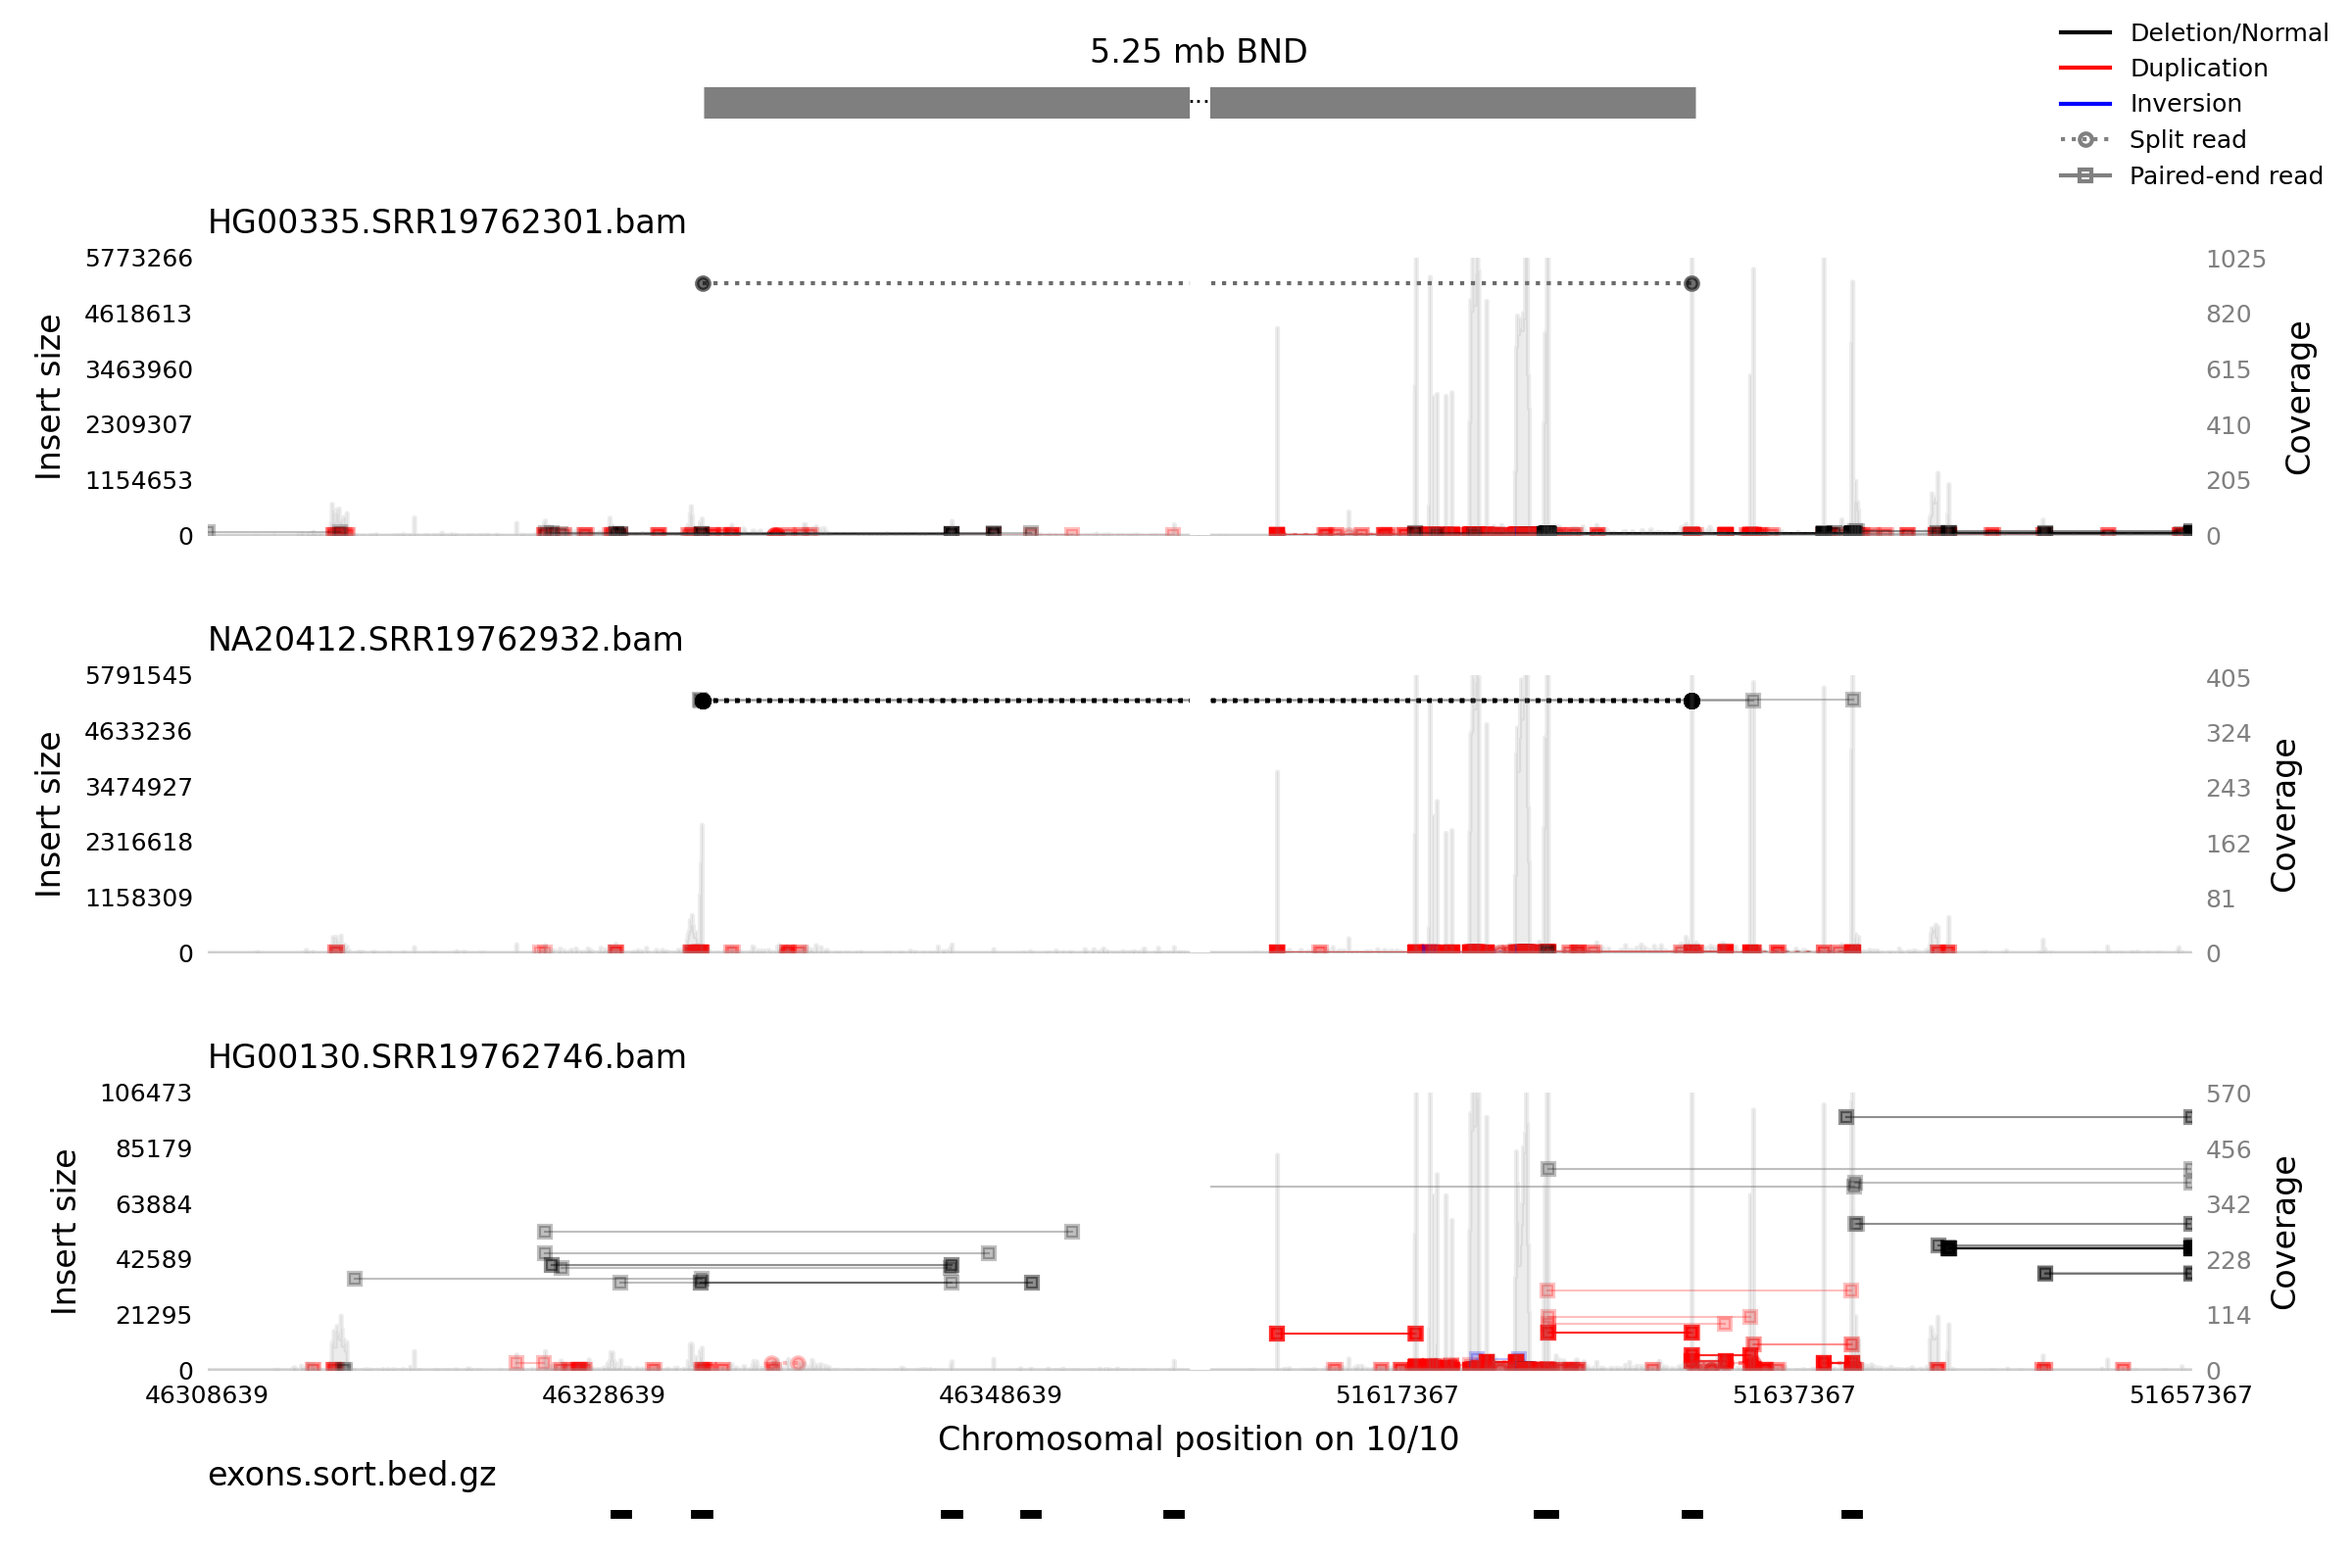
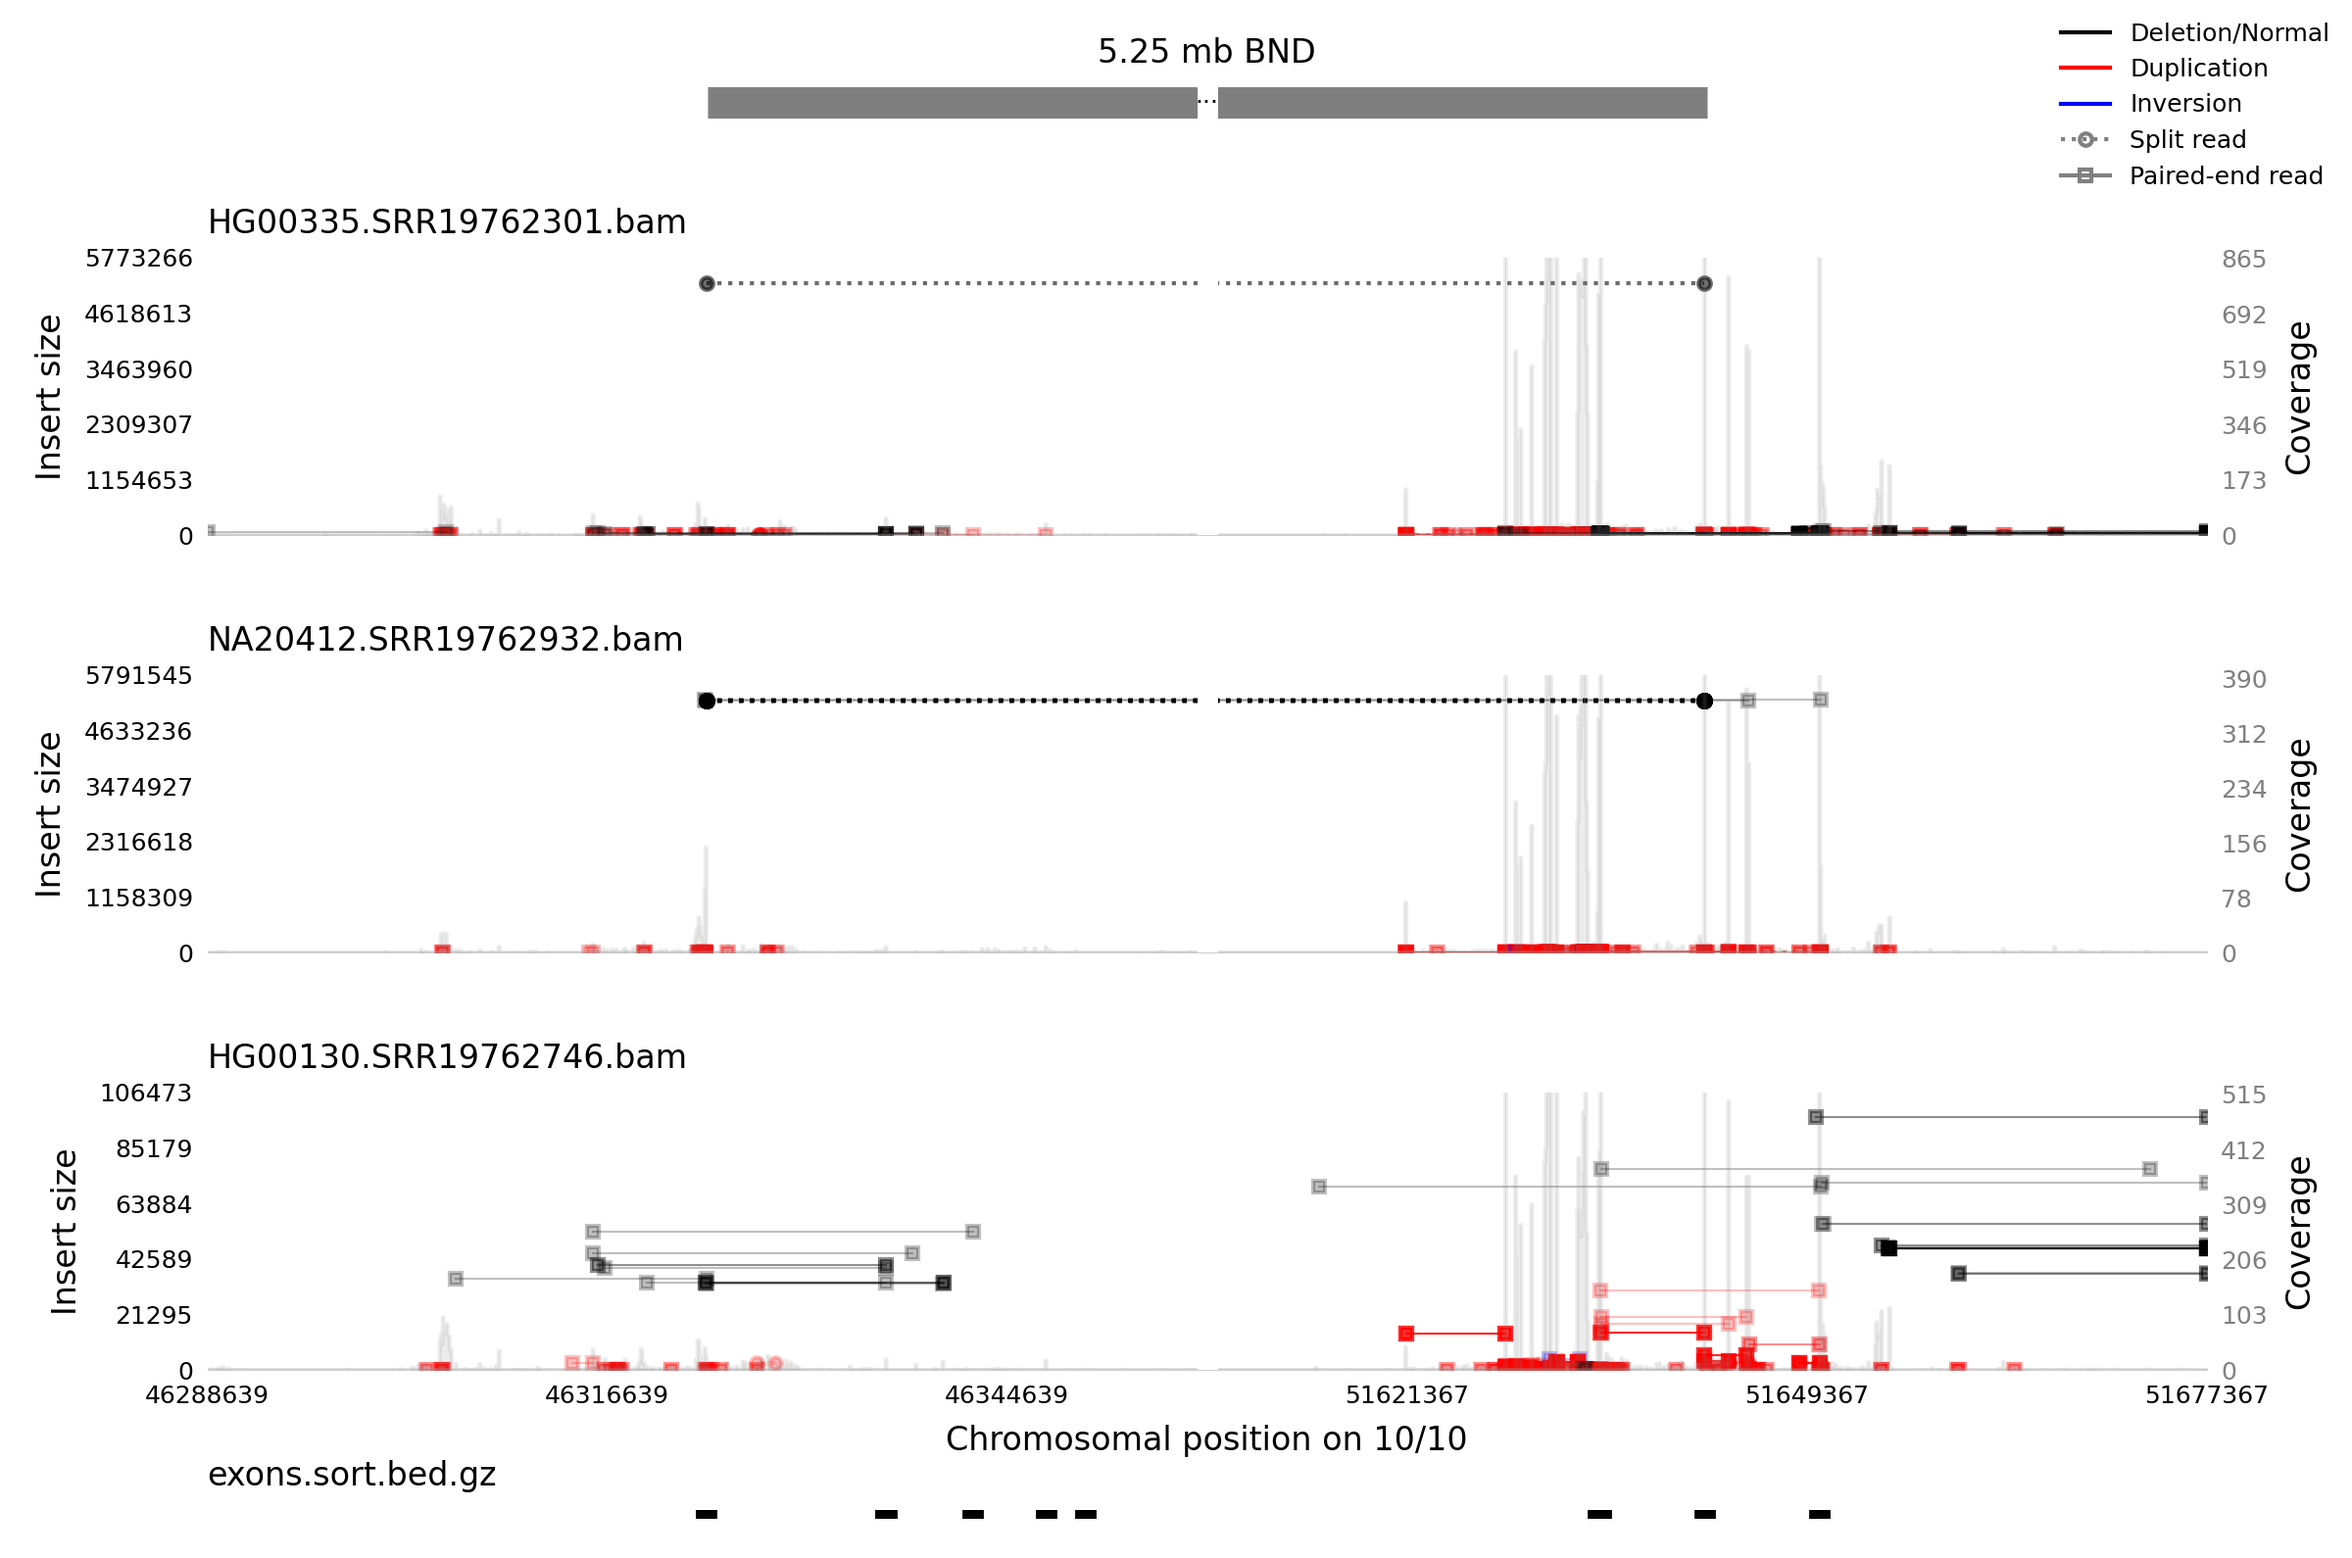
results: samplot rp11 and pargp1-timm23 fusions

diff --git a/results/2026_10-RP11-kidney-investigation/samplot.py b/results/2026_10-RP11-kidney-investigation/samplot.py
@@ -1,0 +1,149 @@
+#!/usr/bin/env python3
+
+import argparse
+import ast
+import os
+import pandas as pd
+import subprocess
+import tempfile
+# from polymerization.plot import samplot
+
+parser=argparse.ArgumentParser()
+parser.add_argument("--input",default="breakpoints.tsv")
+parser.add_argument("--output",default="RP11-pcawg_kidney_normal_rna.png")
+parser.add_argument("--transcripts", default="../2026_09-grch37-gtf2exon_intervals/exon_intervals.tsv.gz")
+parser.add_argument("--conda_samplot", default="samplot_env",help="name of samplot conda env")
+parser.add_argument("--dir_bam_out",default="bam")
+parser.add_argument("--threads",default=8)
+parser.add_argument("--zoom", default=10000)
+parser.add_argument("--pcawg2ega",default="../2026_10-pcawg2ega/pcawg_fileid2ega_fileid.tsv")
+parser.add_argument("--annotation",default="tmp/RP11-345J4.5-003--RP11-345J4.8-001.sort.bed.gz")
+args = parser.parse_args()
+args.threads = int(args.threads)
+
+GENE_LEFT='PARGP1'
+GENE_RIGHT='TIMM23'
+
+def fid2bampcawg(fid: str):
+    # we assume the bams are in subdirs named by fid; standard naming for ega downloads
+    files = os.listdir(fid)
+    for f in files:
+        if f.endswith('.bam'):
+            return os.path.join(fid,f)
+
+# use transcript as annotation track for samplot
+def make_exon_bed(transcript_left, chromosome_left,transcript_right, chromosome_right, df_transcripts, outfile):
+    try:
+        exons_left = df_transcripts.loc[transcript_left,"exon_intervals"]
+    except KeyError as e:
+        print(e)
+        return None
+    try:
+        exons_right = df_transcripts.loc[transcript_right,"exon_intervals"]
+    except KeyError as e:
+        print(e)
+        return None
+    exons_left = ast.literal_eval(exons_left)
+    exons_right = ast.literal_eval(exons_right)
+    with open(outfile, "w") as f:
+        for interval in exons_left:
+            f.write(f"{str(chromosome_left)}\t{interval[0]}\t{interval[1]}\n")
+        for interval in exons_right:
+            f.write(f"{str(chromosome_right)}\t{interval[0]}\t{interval[1]}\n")
+    # sort
+    cmd = f"bedtools sort -i {outfile} > {outfile.replace(".bed",".sort.bed")}"
+    print(f"# running cmd: {cmd}")
+    subprocess.run(cmd,shell=True,check=True)
+    outfile = f"{outfile.replace(".bed",".sort.bed")}"
+    # compress
+    cmd = f"bgzip -f {outfile}"
+    print(f"# running cmd: {cmd}")
+    subprocess.run(cmd,shell=True,check=True)
+    outfile = f"{outfile}.gz"
+    # index
+    cmd = f"tabix -f -p bed {outfile}"
+    print(f"# running cmd: {cmd}")
+    subprocess.run(cmd,shell=True, check=True)
+    return f"{outfile}"
+
+
+def prep_bam(bam_in: str, bam_out: str):
+    cmd = f"samtools sort -@ {args.threads} -o {bam_out} {bam_in}"
+    print(f"# running cmd: {cmd}")
+    result=subprocess.run(cmd,shell=True,check=True)
+    cmd = f"samtools index -@ {args.threads} {bam_out}"
+    print(f"# running cmd: {cmd}")
+    result=subprocess.run(cmd,shell=True,check=True)
+    return result.returncode
+
+def samplot(
+    bams,
+    name,
+    chromosome1,
+    start1,
+    end1,
+    outfile,
+    annotation_bed,
+    svtype="BND",
+    chromosome2=None,
+    start2=None,
+    end2=None,
+    conda_env=args.conda_samplot
+):
+    cmd = f"samplot plot -b {bams} -n {name} -c {chromosome1} "
+    cmd += f"-s {start1} -e {end1} -t {svtype} -A {annotation_bed} "
+    cmd += f"-o {outfile} --zoom {args.zoom}"
+    if all([chromosome2, start2, end2]):
+        cmd += f" -c {chromosome2} -s {start2} -e {end2}"
+    if conda_env:
+        cmd = f"source ~/.bashrc; conda activate {conda_env}; " + cmd
+    print(f"# running cmd: {cmd}")
+    result=subprocess.run(cmd,shell=True,check=True)
+    return result.returncode
+
+def main():
+    df = pd.read_csv(args.input,sep="\t")
+    pcawg2ega = pd.read_csv(args.pcawg2ega,sep="\t").set_index("File_ID").squeeze()
+    df['bam'] = ''
+    df['ega']=''
+    df['pcawg_fid'] = ''
+    df['ega'] = df['sample'].apply(lambda x: os.path.basename(x).split('.')[0])
+    df['pcawg_fid'] = df['ega'].map(pcawg2ega)
+    df['bam'] = df['pcawg_fid'].map(fid2bampcawg)
+    df_transcripts = pd.read_csv(args.transcripts,sep="\t")
+    df_transcripts = df_transcripts.set_index("transcript_name")
+    ### pcawg blood tumor rna
+     # sort and index bams
+    for i,row in df.iterrows():
+        fid=os.path.basename(row['sample']).replace('.bed.gz', '.bam')
+        bam_in = row['bam']
+        bam_out = os.path.join(args.dir_bam_out, fid)
+        if not os.path.exists(bam_out):
+            prep_bam(bam_in,bam_out)
+        df.loc[i,'bam'] = bam_out
+    name='PCAWG_kidney_normal_RNA-RP11-345J4.5-RP11-345J4.8'
+    bam_str = ' '.join(df['bam'].tolist())
+    transcript_left = df.loc[0,'transcript_left']
+    transcript_right = df.loc[0,'transcript_right']
+    chromosome_left = df.loc[0,'breakpoint_left'].split(':')[0]
+    chromosome_right = df.loc[0,'breakpoint_right'].split(':')[0]
+    start = df.loc[0,'breakpoint_left'].split(':')[1]
+    end = df.loc[0,'breakpoint_right'].split(':')[1]
+    # tmp_bed = f"./tmp/{transcript_left}--{transcript_right}.bed"
+    # annotation_bed = make_exon_bed(transcript_left, chromosome_left,transcript_right, chromosome_right, df_transcripts, tmp_bed)
+    samplot(
+        bam_str,
+        name,
+        chromosome_left,
+        start,
+        end,
+        args.output,
+        args.annotation,
+        svtype="BND",
+        chromosome2=None,
+        start2=None,
+        end2=None
+    )
+
+if __name__ == "__main__":
+    main()

diff --git a/results/2026_10-TIMM23-PARGP1-investigation/samplot.py b/results/2026_10-TIMM23-PARGP1-investigation/samplot.py
@@ -6,6 +6,7 @@ import os
 import pandas as pd
 import subprocess
 import tempfile
+# from polymerization.plot import samplot
 
 parser=argparse.ArgumentParser()
 parser.add_argument("--input",default="breakpoints.tsv")
@@ -17,7 +18,8 @@ parser.add_argument("--dir_thousg_rna",default="../2026_07-1kg-rna/star_fusion-p
 parser.add_argument("--dir_bam_out",default="bam")
 parser.add_argument("--threads",default=8)
 parser.add_argument("--annotation",default="exons.sort.bed.gz")
-parser.add_argument("--zoom", default=10000)
+parser.add_argument("--zoom", default=70_000)
+parser.add_argument("--pcawg2ega",default="../2026_10-pcawg2ega/pcawg_fileid2ega_fileid.tsv")
 args = parser.parse_args()
 args.threads = int(args.threads)
 
@@ -35,6 +37,15 @@ def sample2bamthousg(sample: str, dir_thousg_rna: str =args.dir_thousg_rna):
     )
     assert os.path.exists(bam)
     return bam
+
+def fid2bampcawg(fid: str):
+    # we assume the bams are in subdirs named by fid; standard naming for ega downloads
+    files = os.listdir(fid)
+    for f in files:
+        if f.endswith('.bam'):
+            return os.path.join(fid,f)
+
+    
 
 # use transcript as annotation track for samplot
 def make_exon_bed(transcript_left, chromosome_left,transcript_right, chromosome_right, df_transcripts, outfile):
@@ -83,11 +94,12 @@ def samplot(
     chromosome2=None,
     start2=None,
     end2=None,
-    conda_env=args.conda_samplot
+    conda_env=args.conda_samplot,
+    zoom=args.zoom
 ):
     cmd = f"samplot plot -b {bams} -n {name} -c {chromosome1} "
     cmd += f"-s {start1} -e {end1} -t {svtype} -A {annotation_bed} "
-    cmd += f"-o {outfile} --zoom {args.zoom}"
+    cmd += f"-o {outfile} --zoom {zoom}"
     if all([chromosome2, start2, end2]):
         cmd += f" -c {chromosome2} -s {start2} -e {end2}"
     if conda_env:
@@ -109,6 +121,12 @@ def main():
     df = pd.read_csv(args.input,sep="\t")
     df['bam'] = ''
     df.loc[0:2,'bam'] = df.loc[0:2,'sample'].apply(sample2bamthousg)
+    pcawg2ega = pd.read_csv(args.pcawg2ega,sep="\t").set_index("File_ID").squeeze()
+    df['ega']=''
+    df['pcawg_fid'] = ''
+    df.loc[3:,'ega'] = df.loc[3:,'sample'].apply(lambda x: os.path.basename(x).split('.')[0])
+    df.loc[3:,'pcawg_fid'] = df.loc[3:,'ega'].map(pcawg2ega)
+    df.loc[3:,'bam'] = df.loc[3:,'pcawg_fid'].map(fid2bampcawg)
     df_transcripts = pd.read_csv(args.transcripts,sep="\t")
     df_transcripts = df_transcripts.set_index("transcript_name")
     ### thousg rna
@@ -142,6 +160,37 @@ def main():
         chromosome2=None,
         start2=None,
         end2=None
+    )
+    ### pcawg blood tumor rna
+     # sort and index bams
+    for i,row in (df.loc[3:,:]).iterrows():
+        fid=os.path.basename(row['sample']).replace('.bed.gz', '.bam')
+        bam_in = row['bam']
+        bam_out = os.path.join(args.dir_bam_out, fid)
+        if not os.path.exists(bam_out):
+            prep_bam(bam_in,bam_out)
+        df.loc[i,'bam'] = bam_out
+    name='PCAWG_BLOOD_TUMOR_RNA-PARGP1_TIMM23'
+    bam_str = ' '.join(df.loc[3:,'bam'].tolist())
+    transcript_left = df.loc[3,'transcript_left']
+    transcript_right = df.loc[3,'transcript_right']
+    chromosome_left = df.loc[3,'breakpoint_left'].split(':')[0]
+    chromosome_right = df.loc[3,'breakpoint_right'].split(':')[0]
+    start = df.loc[3,'breakpoint_left'].split(':')[1]
+    end = df.loc[3,'breakpoint_right'].split(':')[1]
+    samplot(
+        bam_str,
+        name,
+        chromosome_left,
+        start,
+        end,
+        args.out_tumor,
+        args.annotation,
+        svtype="BND",
+        chromosome2=None,
+        start2=None,
+        end2=None,
+        zoom=args.zoom
     )
 
 if __name__ == "__main__":
